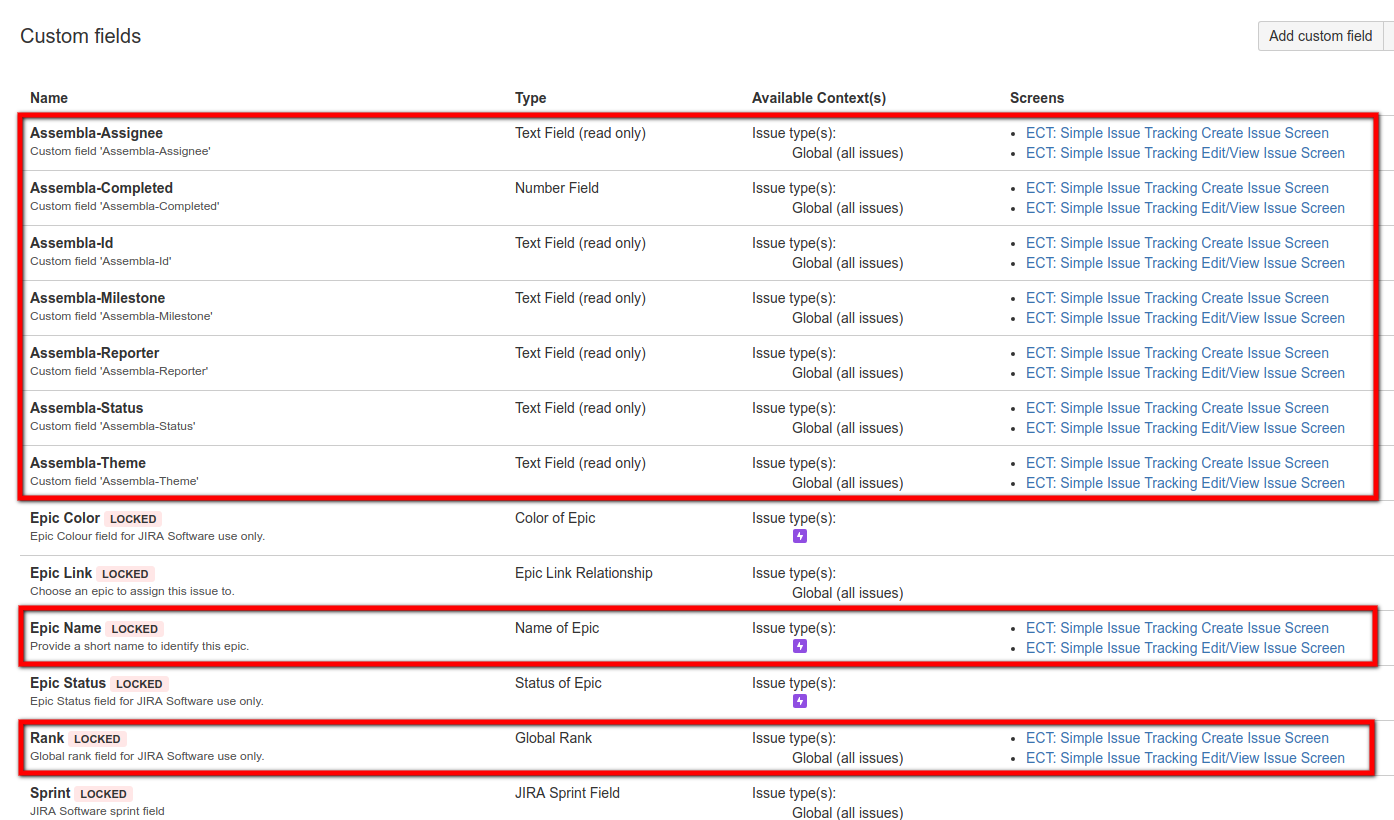
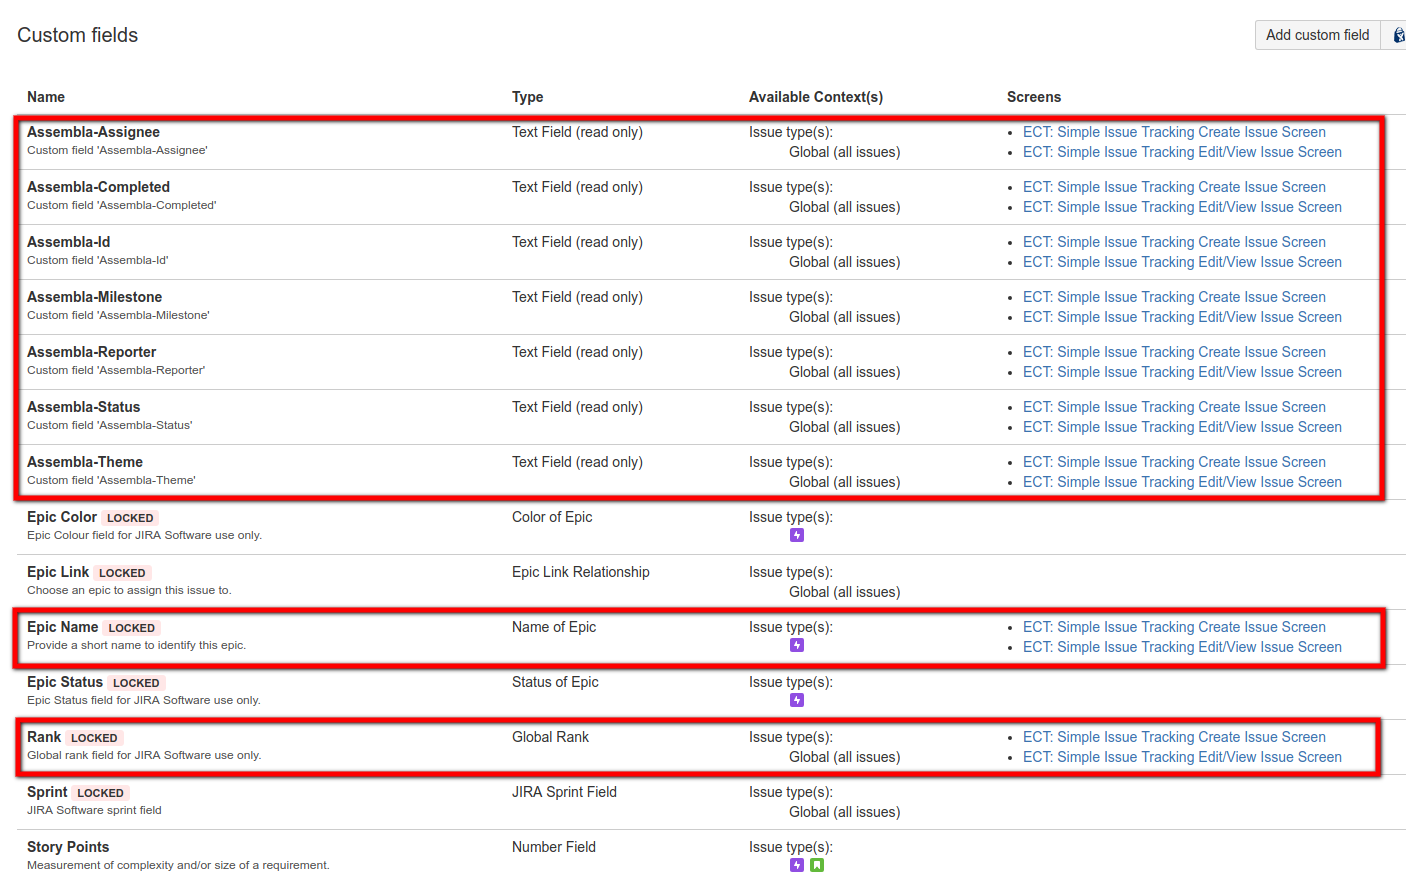
Assembla-Completed custom field.

Changed region(s): [[0.0, 0.0915, 1.0, 1.0], [0.8945, 0.0305, 1.0, 0.061], [0.0, 0.0305, 0.1234, 0.061]]

diff --git a/14-jira_import_tickets.rb b/14-jira_import_tickets.rb
@@ -117,7 +117,7 @@ def create_ticket_jira(ticket, counter, total, grand_counter, grand_total)
   ticket_number = ticket['number']
   summary = reformat_markdown(ticket['summary'])
   created_on = ticket['created_on']
-  completed_date = date_format_yyyy_mm_dd(ticket['created_date'])
+  completed_date = date_format_yyyy_mm_dd(ticket['completed_date'])
   reporter_name = @user_id_to_login[ticket['reporter_id']]
   assignee_name = @user_id_to_login[ticket['assigned_to_id']]
   priority_name = @priority_id_to_name[ticket['priority']]

diff --git a/README.md b/README.md
@@ -89,15 +89,21 @@ The issue type `spike` or `bug` will be defined for any tickets whose summary st
 ![](images/jira-issue-types.png)
 
 Create the following custom fields (text field read-only):
-* Assembla-id
-* Assembla-theme
-* Assembla-status
-* Assembla-milestone
-* Assembla-reporter
-* Assembla-assignee
-* Assembla-completed
 
-IMPORTANT: Include each custom field in the project's `Simple Issue Tracking Create Issue` and `Simple Issue Tracking Edit/View Issue` screens, otherwise the ticket import will fail with the error message `Field 'field-name' cannot be set. It is not on the appropriate screen, or unknown`.
+* Assembla-Id
+* Assembla-Theme
+* Assembla-Status
+* Assembla-Milestone
+* Assembla-Reporter
+* Assembla-Assignee
+* Assembla-Completed
+
+and assign them to the following screens:
+
+* Simple Issue Tracking Create Issue
+* Simple Issue Tracking Edit/View Issue
+
+Otherwise the ticket import will fail with the error message `Field 'field-name' cannot be set. It is not on the appropriate screen, or unknown`.
 
 ![](images/jira-custom-fields.png)
 
@@ -570,6 +576,8 @@ gsub(/@([^@]*)@/, '{\1}')
 * Error "User cannot be assigned issues." => activate, login as user and then deactivate.
 * If issue is an epic then the epic name custom field is required.
 * XSRF check failed => This is a known [bug](https://confluence.atlassian.com/jirakb/rest-api-calls-with-a-browser-user-agent-header-may-fail-csrf-checks-802591455.html).
+* otherwise the ticket import will fail with the error message `Field 'field-name' cannot be set. It is not on the appropriate screen, or unknown`, ensure that the custom field 'field-name' has been created and assigned to the required screens (see above).
+* Error `key='customfield_10100 (Assembla-Completed)', reason='Operation value must be a number'`, ensure that the custom field is the correct type: text field read-only.
 
 ## To do
 
